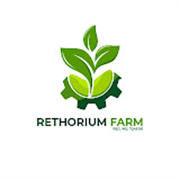
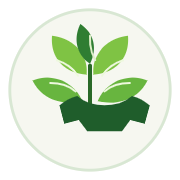
update changes

Changed region(s): [[0.1667, 0.1389, 0.8333, 0.75], [0.0278, 0.0278, 0.9722, 0.9722]]

diff --git a/index.html b/index.html
@@ -23,11 +23,14 @@
 <meta name="twitter:title" content="Rethorium Farm">
 <meta name="twitter:description" content="Fresh farm produce, greenhouse farming, and sustainable agriculture.">
 <meta name="twitter:image" content="https://rethoriumfarm.com/Rethorium%20Logo.jpg">
+<meta name="theme-color" content="#1a3d1f">
 <link rel="canonical" href="https://rethoriumfarm.com">
 <link rel="alternate" hreflang="en-ng" href="https://rethoriumfarm.com">
 <link rel="alternate" hreflang="x-default" href="https://rethoriumfarm.com">
-<link rel="icon" type="image/png" href="/favicon.png">
-<link rel="apple-touch-icon" href="/apple-touch-icon.png">
+<link rel="icon" href="favicon.svg" type="image/svg+xml" sizes="any">
+<link rel="icon" type="image/png" sizes="32x32" href="favicon.png">
+<link rel="mask-icon" href="favicon.svg" color="#2d6a35">
+<link rel="apple-touch-icon" href="apple-touch-icon.png">
 <link href="https://fonts.googleapis.com/css2?family=Playfair+Display:wght@400;600;700&family=DM+Sans:wght@300;400;500&display=swap" rel="stylesheet">
 <style>
   *, *::before, *::after { box-sizing: border-box; margin: 0; padding: 0; }
@@ -58,11 +61,15 @@
   }
   .nav-logo { display: flex; align-items: center; gap: 10px; }
   .nav-logo-icon {
-    width: 76px; height: 76px; background: var(--green-mid);
-    border-radius: 50%; display: flex; align-items: center; justify-content: center;
+    width: 76px; height: 76px;
+    border-radius: 24px; display: flex; align-items: center; justify-content: center;
+    background: radial-gradient(circle at 30% 30%, rgba(255,255,255,0.98), rgba(232,245,233,0.92) 70%, rgba(168,213,162,0.75) 100%);
+    border: 1px solid rgba(45,106,53,0.14);
+    box-shadow: 0 10px 24px rgba(26,61,31,0.12);
+    padding: 0.55rem;
     overflow: hidden;
   }
-  .nav-logo-icon img { width: 100%; height: 100%; object-fit: cover; display: block; }
+  .nav-logo-icon img { width: 100%; height: 100%; object-fit: contain; display: block; }
   .nav-brand { font-family: 'Playfair Display', serif; font-size: 1.08rem; font-weight: 700; color: var(--green-deep); letter-spacing: 0.03em; }
   .nav-links { display: flex; align-items: center; gap: 2rem; }
   .nav-links a { font-size: 0.9rem; color: var(--text-mid); text-decoration: none; letter-spacing: 0.02em; transition: color 0.2s; }
@@ -435,7 +442,7 @@
       gap: 0.7rem;
       min-width: 0;
     }
-    .nav-logo-icon { width: 54px; height: 54px; }
+    .nav-logo-icon { width: 54px; height: 54px; padding: 0.4rem; }
     .nav-brand {
       display: inline-block;
       font-size: 0.86rem;
@@ -623,8 +630,8 @@
       "name": "Rethorium Farm",
       "alternateName": "Rethorium Farm Nigeria",
       "url": "https://rethoriumfarm.com",
-      "logo": "https://rethoriumfarm.com/Rethorium%20Logo.jpg",
-      "image": "https://rethoriumfarm.com/Rethorium%20Logo.jpg",
+      "logo": "https://rethoriumfarm.com/rethorium-logo.svg",
+      "image": "https://rethoriumfarm.com/rethorium-logo.svg",
       "description": "Rethorium Farm is a modern agricultural company in Nigeria focused on sustainable crop production, greenhouse farming, and fresh organic produce supply across West Africa.",
       "email": "info@rethoriumfarm.com",
       "telephone": "+2348164770648",
@@ -678,7 +685,7 @@
 <nav>
   <div class="nav-logo">
     <div class="nav-logo-icon">
-      <img src="Rethorium Logo.jpg" alt="Rethorium Farm logo">
+      <img src="rethorium-mark.svg" alt="Rethorium Farm mark">
     </div>
     <span class="nav-brand">RETHORIUM FARM</span>
   </div>

diff --git a/BIMI-SETUP.md b/BIMI-SETUP.md
@@ -1,0 +1,19 @@
+# BIMI Setup
+
+Use the prepared logo file at `https://rethoriumfarm.com/bimi.svg` for BIMI publication.
+
+Recommended DNS record:
+
+```txt
+default._bimi.rethoriumfarm.com IN TXT "v=BIMI1; l=https://rethoriumfarm.com/bimi.svg; a="
+```
+
+Requirements before BIMI will display in supported inboxes:
+
+- DMARC must be enabled for the sending domain with `p=quarantine` or `p=reject`.
+- SPF and DKIM must both pass for the mail stream using the domain.
+- `bimi.svg` must stay publicly reachable over HTTPS and be served as `image/svg+xml`.
+
+Optional hardening:
+
+- Replace the empty `a=` value with a Verified Mark Certificate URL when you obtain a VMC.
